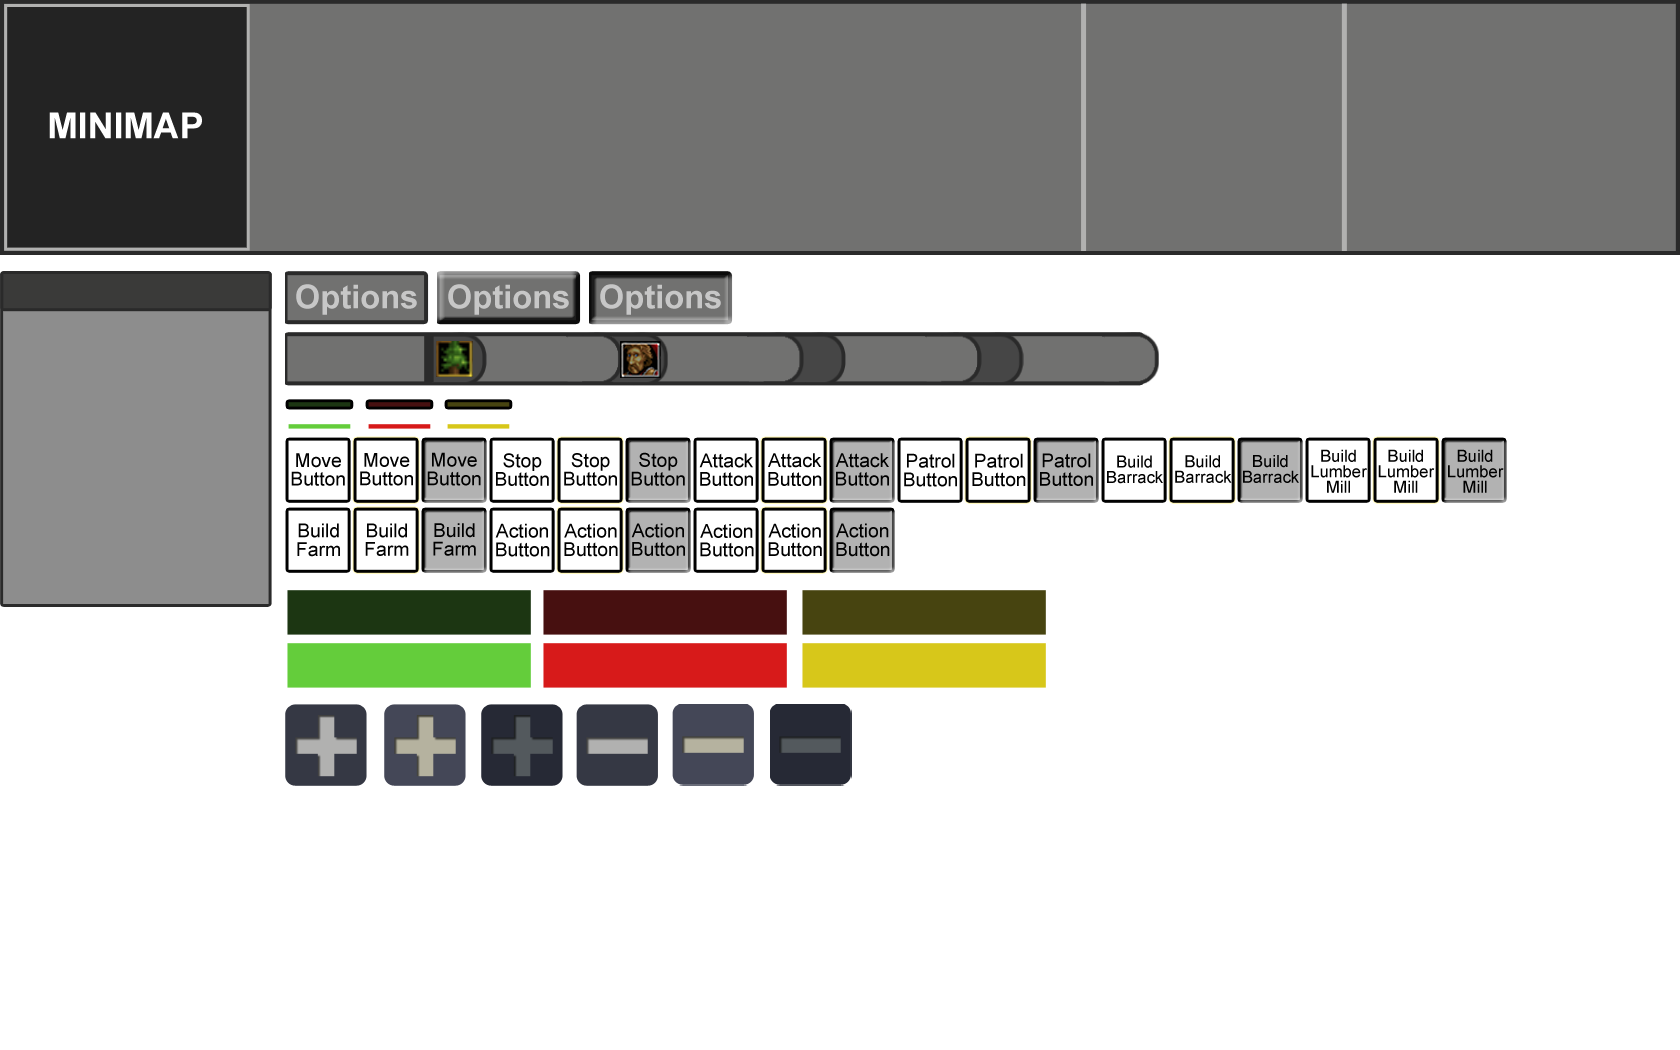
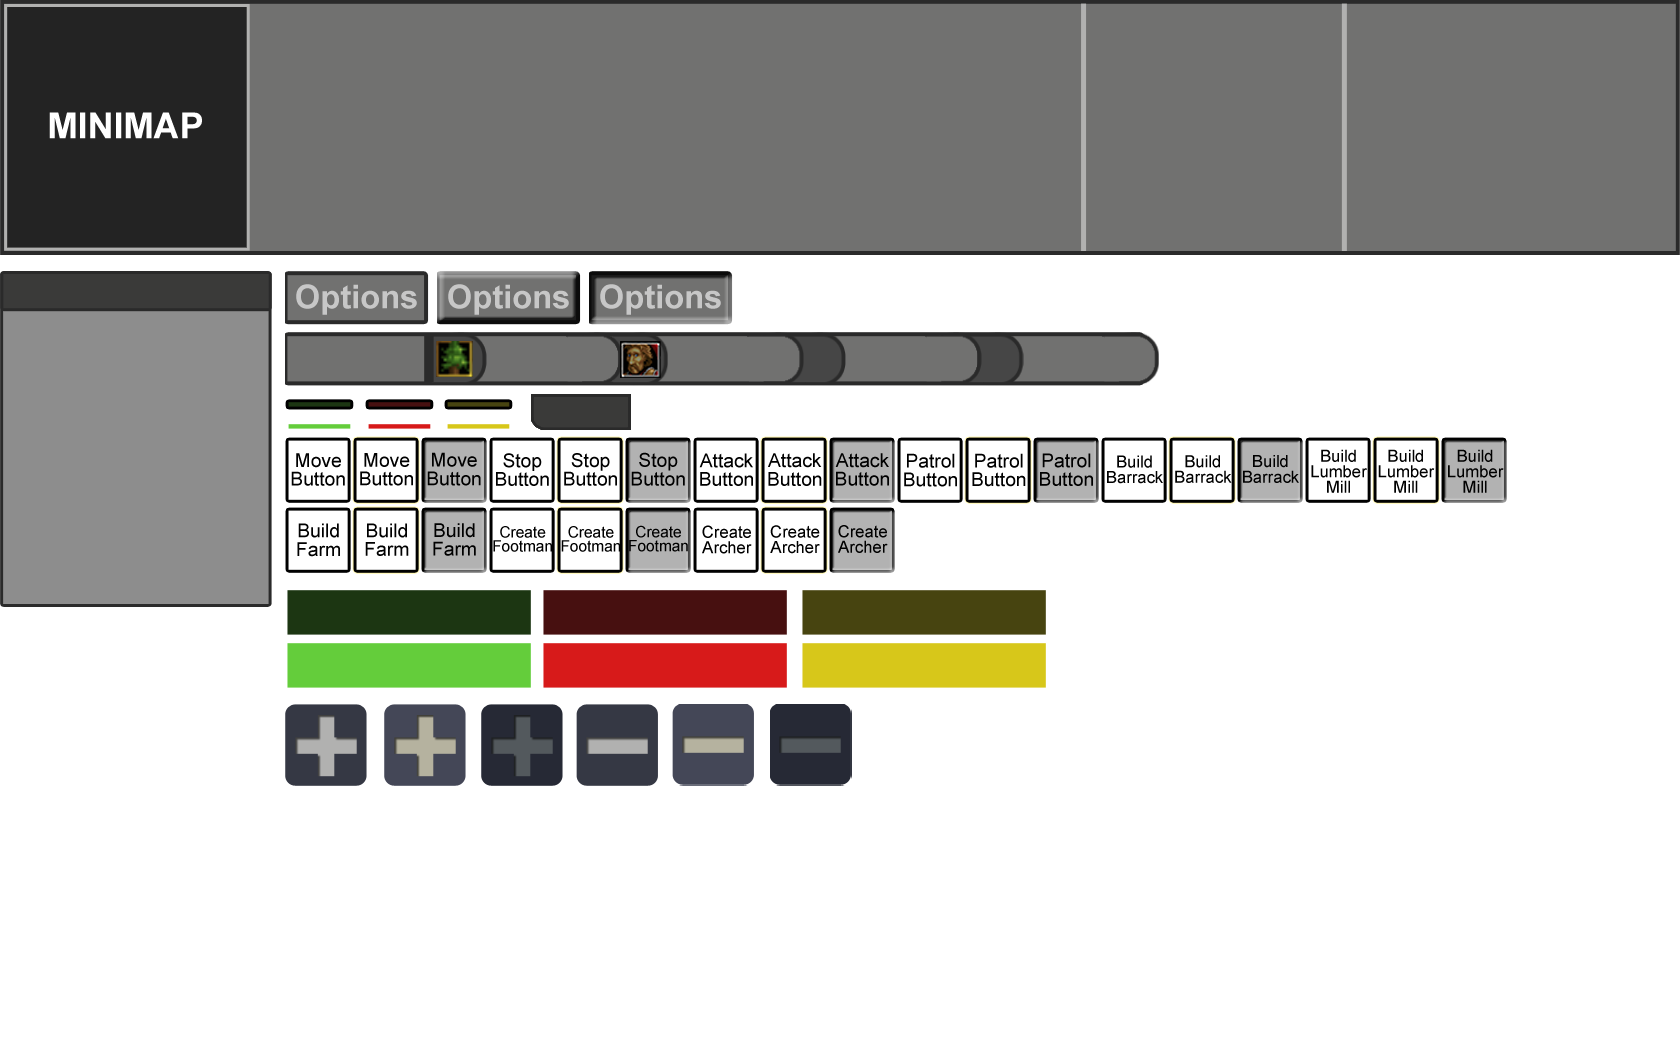
improved costDisplay + now barracks create units

Changed region(s): [[0.2786, 0.4876, 0.5262, 0.5486], [0.3095, 0.3657, 0.3714, 0.4267]]

diff --git a/Motor2D/UI_CostDisplay.cpp b/Motor2D/UI_CostDisplay.cpp
@@ -6,43 +6,58 @@
 #include "j1Scene.h"
 #include "j1Render.h"
 
-CostDisplay::CostDisplay(SDL_Texture* icon_atlas, std::string entityname, int cost, resourceType resource)
+CostDisplay::CostDisplay(SDL_Texture* texture, std::string entityname, int wood_cost, int gold_cost, int oil_cost, int workers_cost): UI_element(0,0,COSTDISPLAY, {0,0,0,0}, nullptr, texture)
 {
-	localPosition = { 400, 70 };
-
 	text_name = new Text(entityname.c_str(), 0, 0, (*App->font->fonts.begin()), { 255,255,255,255 }, callback);
-	text_cost = new Text(std::to_string(cost), 50, 37, (*App->font->fonts.begin()), { 255,255,255,255 }, callback);
-	display_cost = cost;
 
-	icon_image = new Image(icon_atlas, 0, 35, {436,341,37,36 }, callback); //WOOD
+	SDL_Rect wood_icon = { 436,341,37,36 };
+	SDL_Rect gold_icon = { 0,0,0,0 };
+	SDL_Rect oil_icon = { 0,0,0,0 };
+	SDL_Rect workers_icon = { 620,341,41,37 };
 
-	section = { 390, 65, (int)text_name->tex_width + 15, (int)(text_name->tex_height + icon_image->section.h + 15) };
-	switch (resource)
+	if (wood_cost > 0)
 	{
-	case NONE_NATURE:
-		break;
-	case WOOD:
-		break;
-	case GOLD:
-		break;
-	case STONE:
-		break;
+		wood = new resource_cost(texture, wood_cost, wood_icon);
+		appendChild(wood->text_cost);
+		appendChild(wood->resource_icon);
+		resources_num++;
+	}
+	if (gold_cost > 0)
+	{
+		gold = new resource_cost(texture, gold_cost, gold_icon);
+		appendChild(gold->text_cost);
+		appendChild(gold->resource_icon);
+		resources_num++;
+	}
+	if (oil_cost > 0)
+	{
+		oil = new resource_cost(texture, oil_cost, oil_icon);
+		appendChild(oil->text_cost);
+		appendChild(oil->resource_icon);
+		resources_num++;
+	}
+	if (workers_cost > 0)
+	{
+		workers = new resource_cost(texture, workers_cost, workers_icon);
+		appendChild(workers->text_cost);
+		appendChild(workers->resource_icon);
+		resources_num++;
 	}
 
+	section = { 0, 0, (int)text_name->tex_width + 15, (int)(text_name->tex_height + (workers_icon.h*resources_num) + 15) };
+
 	appendChild(text_name);
-	appendChild(text_cost);
-	appendChild(icon_image);
 };
 
 
 CostDisplay::~CostDisplay()
 {
-	std::list<UI_element*>::iterator it_e;
-	it_e = childs.begin();
-	while ((*it_e) != nullptr && it_e != childs.end())
+	std::list<UI_element*>::iterator it_c;
+	it_c = childs.begin();
+	while (it_c != childs.end())
 	{
-		RELEASE((*it_e));
-		it_e++;
+		RELEASE((*it_c));
+		it_c++;
 	}
 	childs.clear();
 }
@@ -51,17 +66,61 @@ void CostDisplay::BlitElement(bool use_camera)
 {
 	Color Dark_Grey = Color(75, 75, 75, 200);
 	iPoint globalPosition = calculateAbsolutePosition();
-	App->render->DrawQuad({globalPosition.x-10, globalPosition.y-5, section.w, section.h}, Dark_Grey, true, use_camera);
+	App->render->DrawQuad({ globalPosition.x - 10, globalPosition.y - 5, section.w, section.h }, Dark_Grey, true, use_camera);
 
-	if (display_cost > App->scene->wood)
+	int offsetY = 36;
+
+	if (wood != nullptr)
 	{
-		text_cost->setColor({ 255, 0, 0,255 }); //red
+		if(wood->cost_num > App->scene->wood)
+			wood->text_cost->setColor({ 255, 0, 0,255 });
+		else
+			wood->text_cost->setColor({ 0, 255, 0,255 });
+
+		wood->resource_icon->localPosition.y = offsetY;
+		wood->text_cost->localPosition.y = offsetY;
+		offsetY += 36;
 	}
-	else if (display_cost <= App->scene->wood)
+	if (gold != nullptr)
 	{
-		text_cost->setColor({ 0, 255, 0,255 }); //green
+		if (gold->cost_num > App->scene->gold)
+			gold->text_cost->setColor({ 255, 0, 0,255 });
+		else
+			gold->text_cost->setColor({ 0, 255, 0,255 });
+
+		gold->resource_icon->localPosition.y = offsetY;
+		gold->text_cost->localPosition.y = offsetY;
+		offsetY += 36;
+	}
+	if (oil != nullptr)
+	{
+		if (oil->cost_num > App->scene->oil)
+			oil->text_cost->setColor({ 255, 0, 0,255 });
+		else
+			oil->text_cost->setColor({ 0, 255, 0,255 });
+
+		oil->resource_icon->localPosition.y = offsetY;
+		oil->text_cost->localPosition.y = offsetY;
+		offsetY += 36;
+	}
+	if (workers != nullptr)
+	{
+		if (workers->cost_num > App->scene->inactive_workers)
+			workers->text_cost->setColor({ 255, 0, 0,255 });
+		else
+			workers->text_cost->setColor({ 0, 255, 0,255 });
+
+		workers->resource_icon->localPosition.y = offsetY;
+		workers->text_cost->localPosition.y = offsetY;
+		offsetY += 36;
 	}
 	
 	UI_element::BlitElement(use_camera);
 };
 
+resource_cost::resource_cost(SDL_Texture * texture, int cost, SDL_Rect icon)
+{
+	text_cost = new Text(std::to_string(cost), 50, 36, (*App->font->fonts.begin()), { 255,255,255,255 }, nullptr);
+	resource_icon = new Image(texture, 0, 36, icon, nullptr);
+	cost_num = cost;
+}

diff --git a/Motor2D/j1EntityController.cpp b/Motor2D/j1EntityController.cpp
@@ -227,6 +227,11 @@ void j1EntityController::DeleteEntity(Entity* entity)
 Unit* j1EntityController::addUnit(iPoint pos, unitType type, Squad* squad)
 {
 	Unit* unit = new Unit(pos, *(unitDB[type]), squad);
+	if (!unit->IsEnemy())
+	{
+		App->scene->workers--;
+		App->scene->inactive_workers--;
+	}
 	entities.push_back(unit);
 	App->gui->createLifeBar(unit);
 	
@@ -392,6 +397,11 @@ void j1EntityController::HandleWorkerAssignment(bool to_assign, Building * build
 	}
 }
 
+bool j1EntityController::CheckCostTroop(unitType target)
+{
+	return App->scene->wood >= unitDB[target]->wood_cost && App->scene->gold >= unitDB[target]->gold_cost && App->scene->workerAvalible(unitDB[target]->squad_members);
+}
+
 bool j1EntityController::CheckCostBuiding(buildingType target)
 {
 	bool ret = false;
@@ -505,6 +515,10 @@ void j1EntityController::selectionControl()
 					}
 				}
 				else selected_entities.push_back(*it);
+				if ((*it)->entity_type == BUILDING)
+				{
+					App->actionscontroller->newSquadPos = { (*it)->position.x, (*it)->position.y + (*it)->collider.h };
+				}
 			}
 		}
 
@@ -756,6 +770,8 @@ void j1EntityController::StartHero(iPoint pos)
 
 	Squad* new_squad = new Squad(aux_vector);
 	all_squads.push_back(new_squad);
+
+	App->gui->createLifeBar(hero);
 
 	entities.push_back(hero);
 }

diff --git a/Motor2D/j1Gui.cpp b/Motor2D/j1Gui.cpp
@@ -678,9 +678,9 @@ void j1Gui::entityDeleted(Entity* entity)
 	inGameMenu->deleteMenuTroop(entity);
 }
 
-CostDisplay* j1Gui::createCostDisplay(std::string name, int wood_cost, int gold_cost, int oil_cost)
+CostDisplay* j1Gui::createCostDisplay(std::string name, int wood_cost, int gold_cost, int oil_cost, int workers_cost)
 {
-	CostDisplay* ret = new CostDisplay(atlas, name, wood_cost, WOOD);
+	CostDisplay* ret = new CostDisplay(atlas, name, wood_cost, gold_cost, oil_cost, workers_cost);
 	return ret;
 }
 
@@ -728,7 +728,7 @@ void j1Gui::LoadDB(pugi::xml_node node)
 		pugi::xml_node cost = actionButton.child("popUp").child("Cost");
 		if (cost && info)
 		{
-			button->costDisplay = createCostDisplay(info.attribute("text").as_string(), cost.attribute("wood").as_int(), cost.attribute("gold").as_int(), cost.attribute("oil").as_int());
+			button->costDisplay = createCostDisplay(info.attribute("text").as_string(), cost.attribute("wood").as_int(0), cost.attribute("gold").as_int(0), cost.attribute("oil").as_int(0), cost.attribute("workers").as_int(0));
 		}
 		else if (info)
 		{

diff --git a/Motor2D/UI_CostDisplay.h b/Motor2D/UI_CostDisplay.h
@@ -3,30 +3,40 @@
 
 #include "UI_element.h"
 
-
 struct _TTF_Font;
 
 class Image;
 class Text;
 
+struct resource_cost
+{
+	resource_cost(SDL_Texture* texture, int cost, SDL_Rect icon);
+
+	Text* text_cost = nullptr;
+	Image* resource_icon = nullptr;
+	int cost_num = 0;
+};
+
 class CostDisplay : public UI_element
 {
 public:
 
-	CostDisplay(SDL_Texture* icon_atlas, std::string entityname, int cost, resourceType resource);
+	CostDisplay(SDL_Texture* texture, std::string entityname, int wood_cost = 0, int gold_cost = 0, int oil_cost = 0, int workers_cost = 0);
 
 	~CostDisplay();
 
 	void BlitElement(bool use_camera = false);
 
 public:
-	SDL_Texture* icon_atlas = nullptr;
-	Text* entity_name = nullptr;
+	//SDL_Texture* icon_atlas = nullptr;
 
 	Text* text_name = nullptr;
-	Text* text_cost = nullptr;
-	Image* icon_image = nullptr; 
-	int display_cost = 0;
+
+	resource_cost* wood = nullptr;
+	resource_cost* gold = nullptr;
+	resource_cost* oil = nullptr;
+	resource_cost* workers = nullptr;
+	uint resources_num = 0;
 };
 
 

diff --git a/Motor2D/j1ActionsController.cpp b/Motor2D/j1ActionsController.cpp
@@ -62,6 +62,16 @@ bool j1ActionsController::Update(float dt)
 			App->entitycontroller->HandleWorkerAssignment(true, (Building*)*App->entitycontroller->selected_entities.begin());
 			doingAction = false;
 			break;
+		case CREATE_FOOTMAN:
+			if (App->entitycontroller->CheckCostTroop(FOOTMAN))
+				App->entitycontroller->AddSquad(FOOTMAN, newSquadPos);
+			doingAction = false;
+			break;
+		case CREATE_ARCHER:
+			if (App->entitycontroller->CheckCostTroop(ARCHER))
+				App->entitycontroller->AddSquad(ARCHER, newSquadPos);
+			doingAction = false;
+			break;
 		}
 		
 	}

diff --git a/Motor2D/j1UIScene.cpp b/Motor2D/j1UIScene.cpp
@@ -197,6 +197,12 @@ bool j1UIScene::OnUIEvent(UI_element* element, event_type event_type)
 		case ASSIGN_WORKER_FUNCTION:
 			App->actionscontroller->activateAction(ASSIGN_WORKER);
 			break;
+		case CREATE_FOOTMAN_FUNCTION:
+			App->actionscontroller->activateAction(CREATE_FOOTMAN);
+			break;
+		case CREATE_ARCHER_FUNCTION:
+			App->actionscontroller->activateAction(CREATE_ARCHER);
+			break;
 		}
 	}
 	else if (event_type == MOUSE_RIGHT_CLICK && element->state != LOCKED && element->state != LOCKED_MOUSEOVER)

diff --git a/Motor2D/j1ActionsController.h b/Motor2D/j1ActionsController.h
@@ -2,6 +2,7 @@
 #define __J1ACTIONSCONTROLLER_H__
 
 #include "j1Module.h"
+#include "p2Point.h"
 
 enum actionType
 {
@@ -12,7 +13,9 @@ enum actionType
 	BUILD_LUMBER_MILL,
 	BUILD_FARM,
 	UNASSIGN_WORKER,
-	ASSIGN_WORKER
+	ASSIGN_WORKER,
+	CREATE_FOOTMAN,
+	CREATE_ARCHER
 };
 
 class j1ActionsController : public j1Module
@@ -37,6 +40,7 @@ public:
 	bool doingAction_lastFrame = false;
 	bool action_assigned = false;
 	actionType action_type;
+	fPoint newSquadPos = { 0.0f,0.0f };
 
 };
 

diff --git a/Motor2D/j1Gui.h b/Motor2D/j1Gui.h
@@ -100,7 +100,7 @@ public:
 	void createLifeBar(Entity* entity);
 	void deleteLifeBar(Entity* entity, std::list<LifeBar*>& list);
 	void entityDeleted(Entity* entity);
-	CostDisplay* createCostDisplay(std::string name, int wood_cost = 0, int gold_cost = 0, int oil_cost = 0);
+	CostDisplay* createCostDisplay(std::string name, int wood_cost = 0, int gold_cost = 0, int oil_cost = 0, int workers_cost = 0);
 
 	void createPopUpInfo(UI_element* element, std::string info);
 

diff --git a/Motor2D/UI_Chrono.h b/Motor2D/UI_Chrono.h
@@ -22,7 +22,10 @@ public:
 	Chrono(int x, int y, chrono_type type, _TTF_Font* font, SDL_Color color, j1Module* callback) : UI_element(x, y, element_type::CHRONO, { 0, 0, 0, 0 }, callback, nullptr),
 		type(type)
 	{
-		text = new Text("00000", x, y, font, color, nullptr);
+		text = new Text("00:00", 0, 0, font, color, nullptr);
+		text->parent = this;
+		section.w = text->tex_width;
+		section.h = text->tex_height;
 		//counter.Pause();
 		time = -1;
 	}

diff --git a/Motor2D/UI_element.h b/Motor2D/UI_element.h
@@ -20,7 +20,8 @@ enum element_type
 	WINDOW,
 	CHRONO,
 	PROGRESSBAR,
-	MENU
+	MENU,
+	COSTDISPLAY
 };
 
 enum element_function
@@ -46,7 +47,9 @@ enum element_function
 	BUILD_LUMBER_MILL_FUNCTION,
 	BUILD_FARM_FUNCTION,
 	UNASSIGN_WORKER_FUNCTION,
-	ASSIGN_WORKER_FUNCTION
+	ASSIGN_WORKER_FUNCTION,
+	CREATE_FOOTMAN_FUNCTION,
+	CREATE_ARCHER_FUNCTION
 };
 
 enum element_state

diff --git a/Motor2D/j1Scene.cpp b/Motor2D/j1Scene.cpp
@@ -106,14 +106,15 @@ bool j1Scene::Save(pugi::xml_node& data) const
 	return true;
 }
 
-bool j1Scene::workerAvalible()
+bool j1Scene::workerAvalible(int num)
 {
-	bool ret;
+	bool ret = false;
+
 	if (inactive_workers == 0)
 	{
 		ret = false;
 	}
-	else if (inactive_workers > 0)
+	else if (inactive_workers >= num)
 	{
 		ret = true;
 	}

diff --git a/Motor2D/j1Scene.h b/Motor2D/j1Scene.h
@@ -36,13 +36,14 @@ public:
 	bool Load(pugi::xml_node& data);
 	bool Save(pugi::xml_node& data) const;
 
-	bool workerAvalible();
+	bool workerAvalible(int num = 1);
 
 public:
 	SDL_Texture* debug_tex = nullptr;
 
 	int wood = 0;
 	int gold = 0;
+	int oil = 0;
 	int workers = 0;
 	int inactive_workers = 0;
 	int town_hall_lvl = 0;
